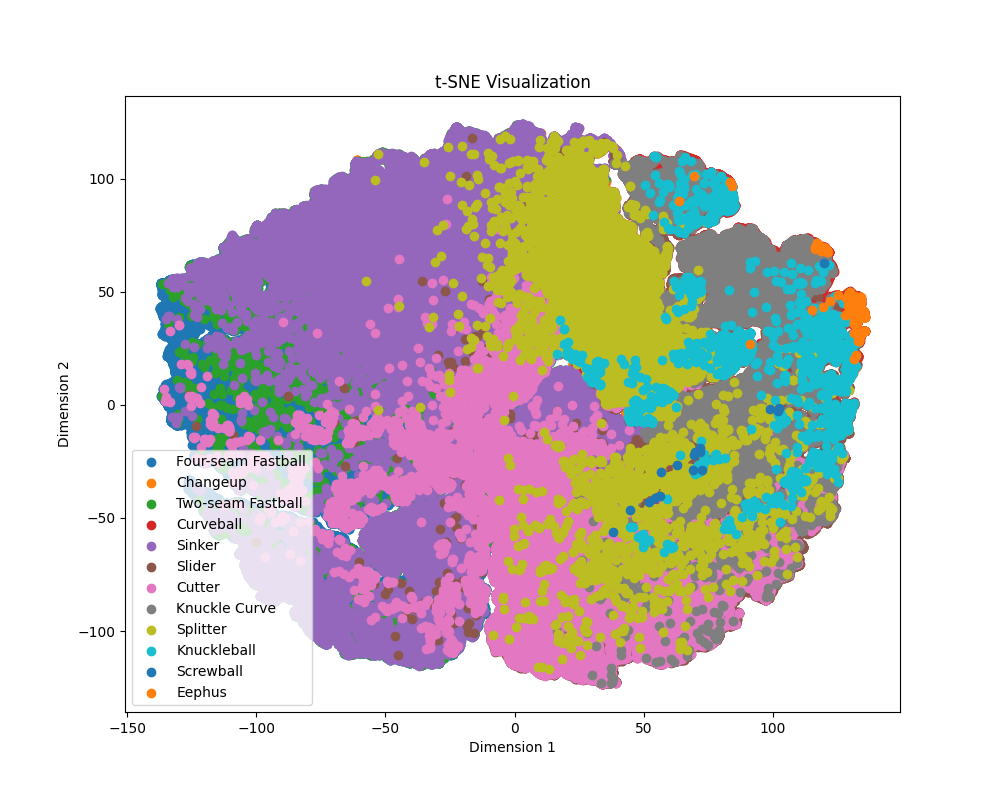
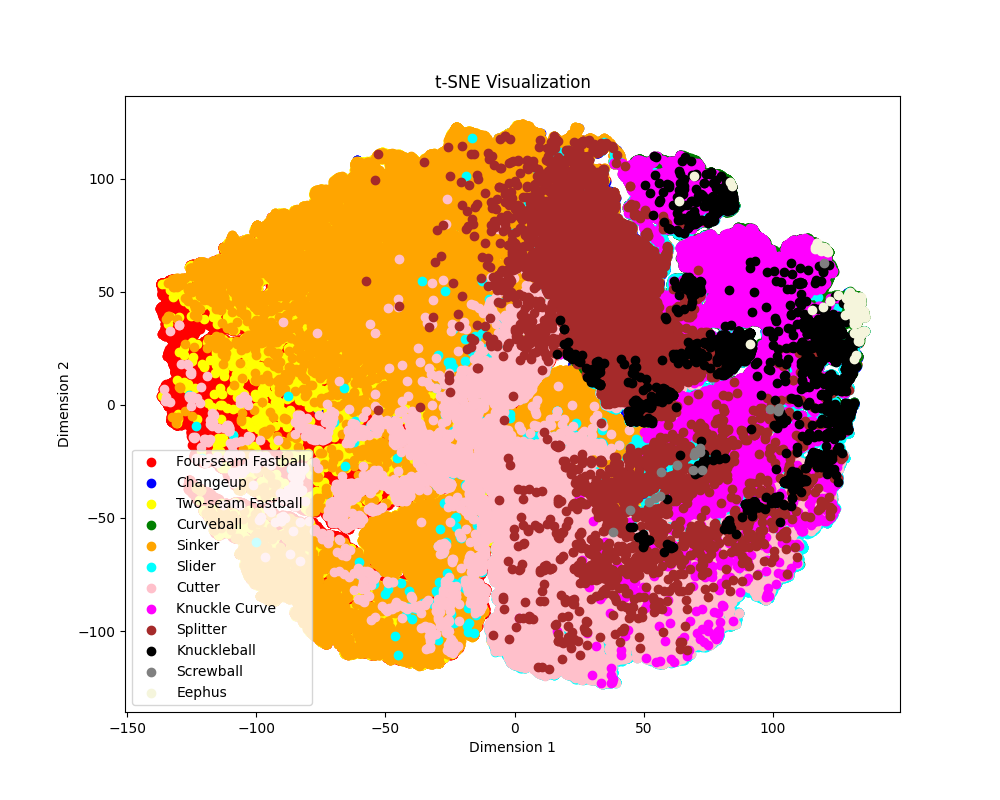
messing with t-sne colors

diff --git a/test.py b/test.py
@@ -116,16 +116,18 @@ def create_tSNE(model, test_loader):
     tsne_df['Class'] = targets.cpu()
     tsne_df.to_pickle("data\\t-sne.pkl")
 
-def visualize_tSNE(model, test_loader):
+def visualize_tSNE():
     tsne_df = pd.read_pickle("data\\t-sne.pkl")
     print(tsne_df.head())
 
     # Plot the t-SNE visualization
     plt.figure(figsize=(10, 8))
     # Create a scatter plot with different colors for each class
-    for class_label in tsne_df['Class'].unique():
+    colors = ["red", "blue", "yellow", "green", "orange", "cyan", "pink", "magenta", "brown", "black", "gray", "beige"]
+    for idx, class_label in enumerate(tsne_df['Class'].unique()):
         subset = tsne_df[tsne_df['Class'] == class_label]
-        plt.scatter(subset['Dimension 1'], subset['Dimension 2'], label=class_names[class_label])
+        plt.scatter(subset['Dimension 1'], subset['Dimension 2'], label=class_names[class_label], color=colors[idx])
+        # plt.scatter(subset['Dimension 1'], subset['Dimension 2'], label=class_names[class_label], cmap="viridis")
 
     # Add labels and legend
     plt.title('t-SNE Visualization')
@@ -149,19 +151,19 @@ def main():
             setattr(args, k, v)
 
     # Load the model
-    model_path = 'checkpoints/PID_Linear_trained.pt'
-    model = load_model(model_path)
+    # model_path = 'checkpoints/PID_Linear_trained.pt'
+    # model = load_model(model_path)
 
     # Load the data loaders
-    test_dataset = PitchDataset(args.dataset, False)
-    test_loader = DataLoader(test_dataset, batch_size=args.batch_size, shuffle=True)
+    # test_dataset = PitchDataset(args.dataset, False)
+    # test_loader = DataLoader(test_dataset, batch_size=args.batch_size, shuffle=True)
 
     # Call the evaluation function
     # create_confusion_matrix(model, test_loader)
 
     # Call the t-SNE visualization function
     # create_tSNE(model, test_loader)
-    visualize_tSNE(model, test_loader)
+    visualize_tSNE()
 
 if __name__ == "__main__":
     main()
